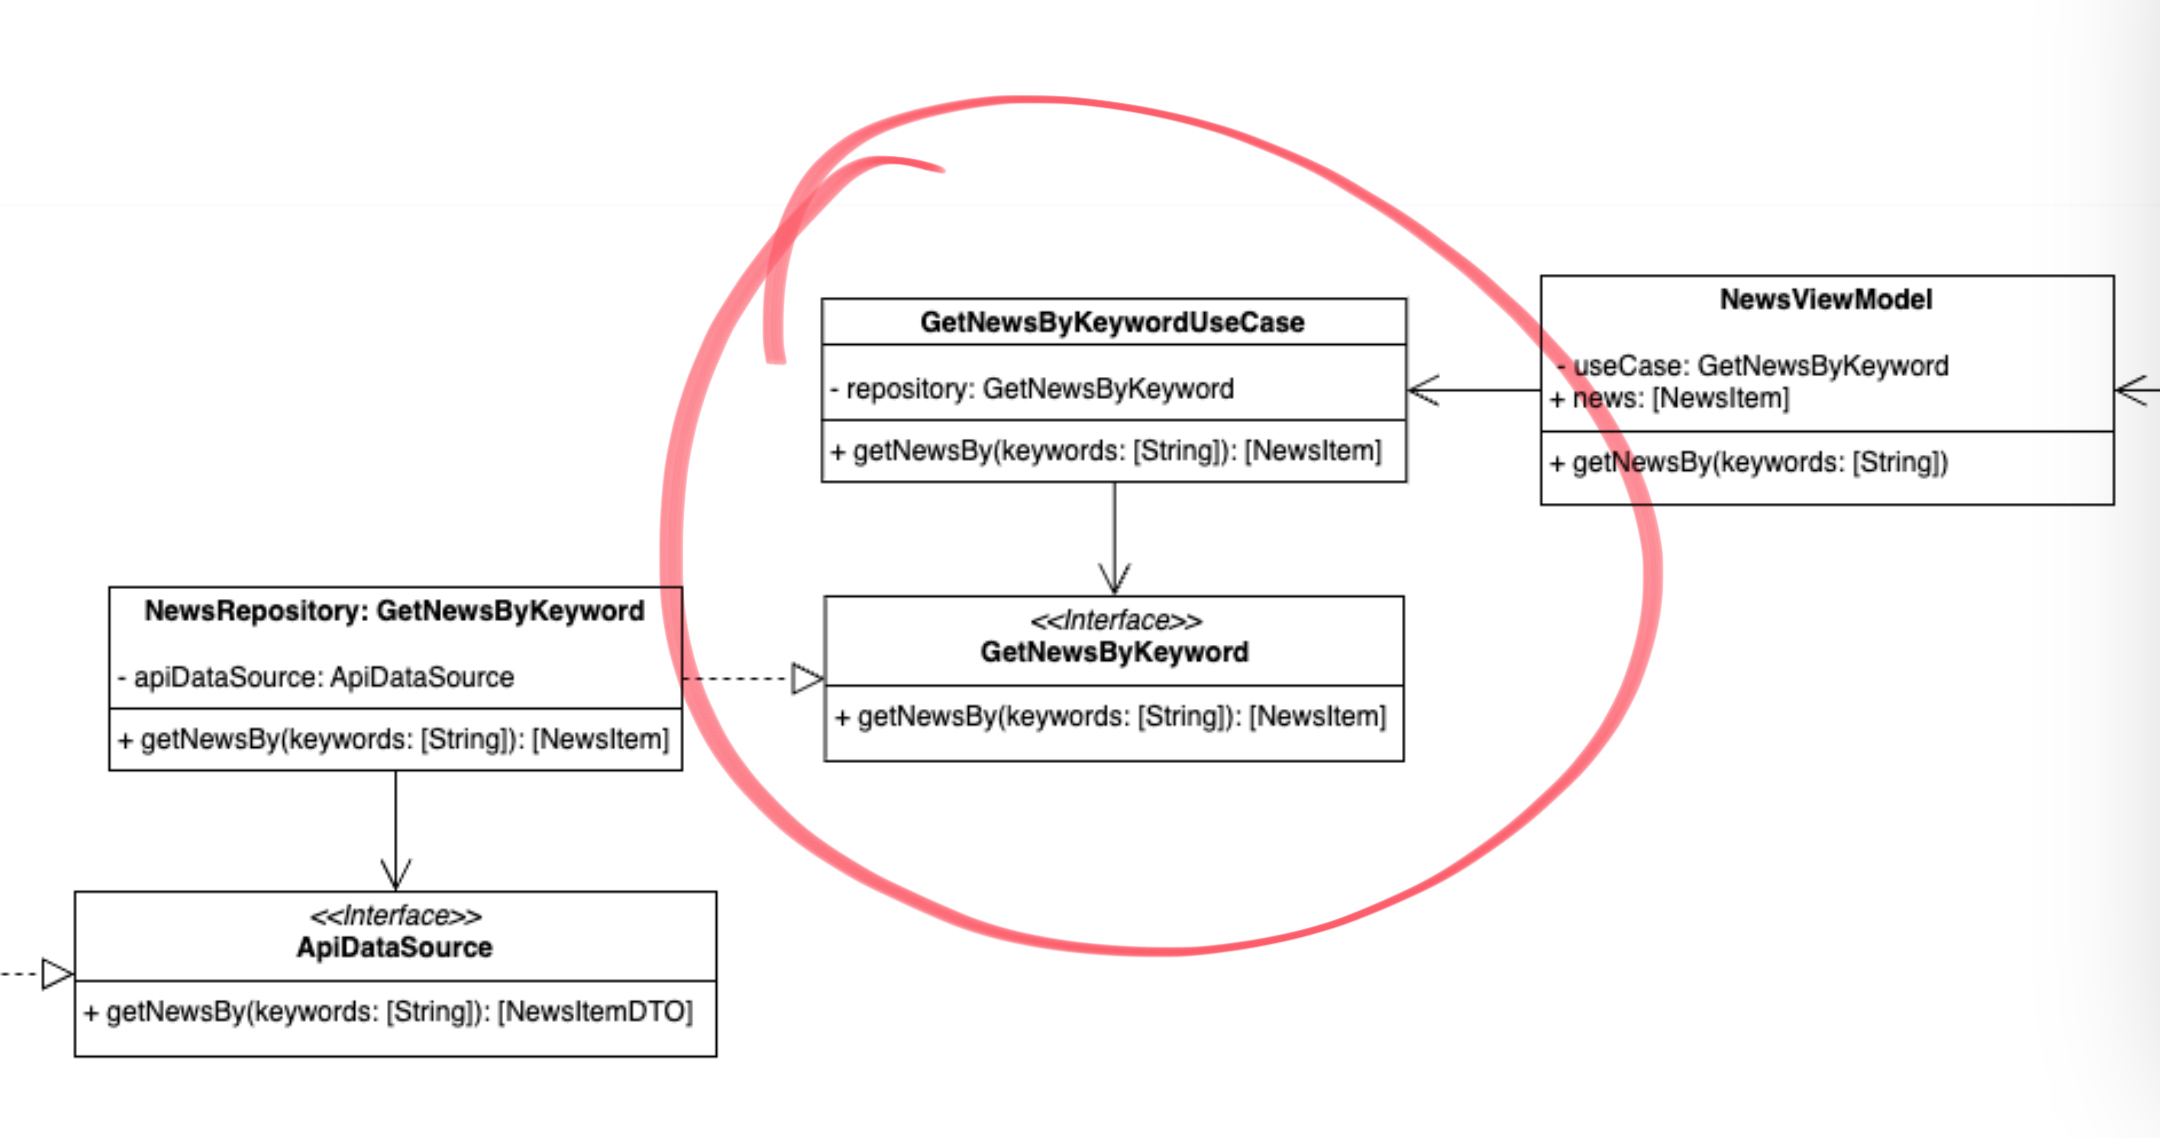
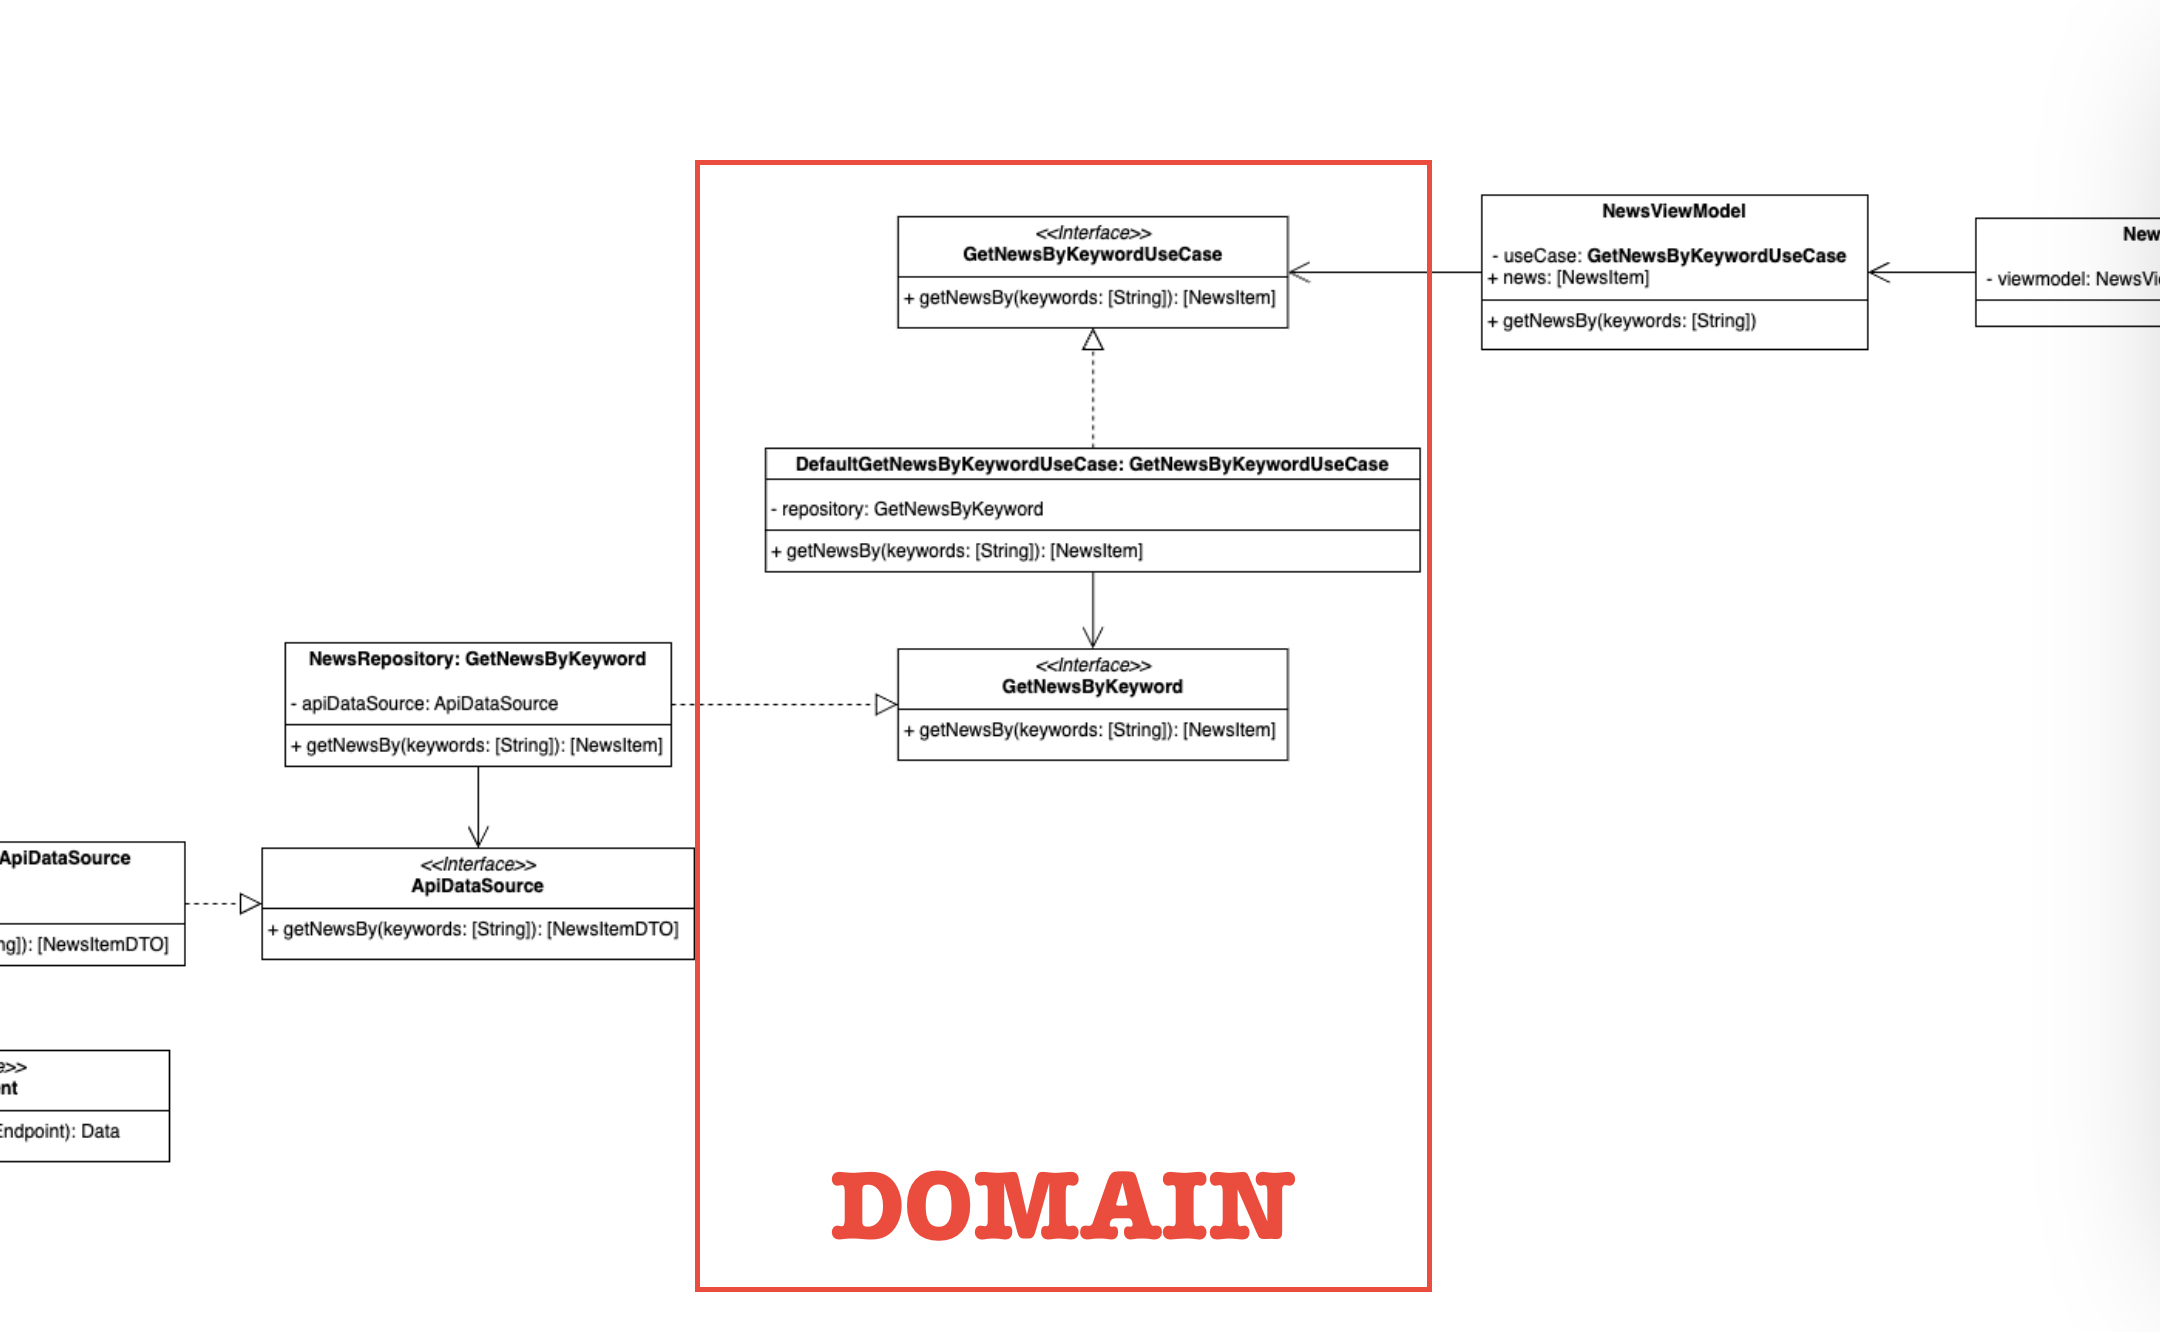
update article and images

diff --git a/002_clean_architecture/article.md b/002_clean_architecture/article.md
@@ -181,12 +181,17 @@ Veamos ahora, mediante un diagrama UML, un resumen simplificado de una posible a
 
 ![Imagen del caso de uso y su interface](images/uml2.png)
 
-Nos encontramos en la capa de dominio, hemos creado nuestro caso de uso **GetNewsByKeywordUseCase**. ¿Cuál es su responsabilidad?, este caso de uso se ocupa de preparar los datos para aplicar correctamente la lógica de negocio. Por ejemplo, podría recibir los datos y, para cumplir con nuestra lógica de negocio, ordenarlos en base a una determinada propiedad: nombre, publicación...  
+Nos encontramos en la capa de dominio, hemos creado nuestro caso de uso **GetNewsByKeywordUseCase**. ¿Cuál es su responsabilidad?, este caso de uso se ocupa de preparar los datos para aplicar correctamente la lógica de negocio. Por ejemplo, podría recibir los datos y, para cumplir con dicha lógica, ordenarlos en base a una determinada propiedad: nombre, publicación...  
 
 También podría ocuparse de filtrar los artículos para excluir aquellos cuyo contenido se considerase inapropiado, etc. En resumen, una vez obtenidos los datos los tendría listos para ser devueltos a quien los requiriese.   
 
 - Un momento, ¿no tiene demasiadas responsabilidades?, ¿tiene que ocuparse de recibir los datos y prepararlos en base a nuestras reglas de negocio?...  
     - Bien visto, pero para la obtención de datos se apoya en lo que convencionalmente denominamos repositorio. Será a dicho repositorio al que le solicitaremos los datos correspondientes, delegando esa responsabilidad en éste y manteniendo nuestro principio de responsabilidad única. Además nuestra dependencia del repositorio está invertida, por lo que especificamos de forma abstracta a la capa superior qué necesitamos, pero sin especificar ningún tipo de implementación. De esta forma dependemos de una abstracción, no de ninguna implementación concreta que rompa nuestra regla de la dependencia. 
+
+> En el principio SOLID **Inversión de la dependencia**, en muchas ocasiones, se hace referencia a que los módulos de alto nivel no deberían depender de los módulos de bajo nivel y que, ambos, deberían depender de abstracciones. 
+>
+> Con módulos de alto nivel se refieren a nuestra lógica de dominio, nuestra reglas de negocio, nuestras entidades...
+> Nos indica que estos módulos no deberían de depender, por ejemplo, de componentes de la capa de infraestructura como la interfaz de usuario o la base de datos.
 
 ### Adapters -> Repository
 
@@ -234,10 +239,61 @@ Bien, volvamos a la capa de adaptadores, pero veamos qué tenemos a la derecha d
 
 ### Adapters -> Presenters
 
-![Capa de presentadores, muestra un ViewModel](images/uml5.jpg)
+![Capa de presentadores, muestra un ViewModel](images/uml5.png)
 
 En el otro lado del flujo de datos nos encontramos con los presenters. Al igual que hacían en la capa de repositorios aquí también actúan de intermediarios entre los casos de uso y, en este caso, la interfaz de usuario. 
 
 Los presenters reciben los datos de los casos de  uso y los preparan para su uso en la interfaz de usuario correspondiente, en nuestro caso vistas de SwiftUI o Composables de Jetpack Compose. Con esto se garantiza que la vista reciba solo los datos que necesita y en el formato que los necesita. 
 
-// TODO: Cambiar imagen y adaptar texto
+Para seguir cumpliendo con la regla de **depender de abstracciones y no de implementaciones** la dependencia que tiene el  viewmodel con el caso de uso también lo hace sobre una abstracción, no sobre una implementación concreta de dicho caso de uso.
+
+### Infraestructure -> UI
+
+![Capa de infraestructura, muestra la vista](images/uml6.png)
+
+Para completar con nuestra arquitectura llegaríamos a la capa de infraestructura por la parte de la interfaz de usuario. En este ejemplo sería una View de SwiftUI o un Composable de Jetpack Compose. 
+
+Y con esto habríamos completado nuestra arquitectura limpia para un feature en concreto. En la siguiente sección hablaremos de algunas cuestiones a valorar. 
+
+## Problemas y rupturas de la arquitectura
+
+En la parte de la interfaz gráfica, donde se encuentran el caso de uso, el viewmodel y la vista, se sigue cumpliendo estrictamente la regla de la dependencia, en concreto: 
+- El caso de uso, en la capa de dominio, no conoce al ViewModel y no tiene ninguna dependencia con éste. 
+- El ViewModel, en la capa de adaptadores, no conoce a la View, no tiene acoplamiento a ésta.
+- La View, en la capa de Infraestructure usa el ViewModel que tiene en una capa más interna, por lo que no hay ningún problema. 
+
+Pero sí que nos encontramos con un problema, al menos en el caso de una implementación con SwiftUI. Y es el framework de reactividad. 
+
+En las primeras versiones de SwiftUI podría tratarse de Combine, de Observation para iOS 17 en adelante o incluso, Steve Wozniak no lo quiera, una librería de terceros. 
+
+La cuestión a tener en cuenta es que este ViewModel en la capa de Adaptadores no debería estar acoplado a un detalle de la infraestructura. ¿Podría resolverse?, sí, podría crearse un componente intermedio que no contuviese información al respecto del framework reactivo. 
+
+Dicho componente usaría el caso de uso para obtener la información. ¿Cómo se comunicaría con el ViewModel?, de nuevo mediante inversión de la dependencia. 
+
+Se me ocurren varias formas, por ejemplo, mediante el patrón protocolo delegado, haciendo que el ViewModel lo implementase. Los ViewModel, en SwiftUI, son clases así que no habría problema en que el composition root usase una referencia de dicho ViewModel y lo inyectase como delegado. En el proyecto de ejemplo que adjunto a este artículo hay una rama en la que creo este componente intermedio. 
+
+También podríamos usar el patrón observer, de nuevo una combinación de pasos por referencia y protocolos haría posible resolver el problema. 
+
+Pero en este caso he optado por no agregarla. ¿Por qué?, decisión de arquitectura, no lo he creído conveniente. O más bien, no he visto que aporte el valor suficiente para compensar la complejidad extra. 
+
+Y aquí es dónde vienen las malas caras, ¿cuánto de puristas queremos ser?, o como se dice en mi pueblo, ¿queremos ser más papistas que el papa?
+
+Cada desarrollador encargado de crear la arquitectura de un proyecto tendrá que enfrentarse a estas decisiones y deberá valorar muchas cosas antes de optar por un camino u otro. Por ejemplo:
+
+- **Complejidad del dominio:** sistemas con lógica de negocio compleja pueden requerir más capas para asegurar una separación clara de responsabilidades y facilitar el mantenimiento.
+- **Volumen y variabilidad de los requisitos:** proyectos con requisitos cambiantes o en evolución pueden beneficiarse de una arquitectura más modular que permita adaptaciones rápidas sin afectar otras partes del sistema.
+- **Experiencia y habilidades del equipo de desarrollo:** un diseño más simple puede ser preferible si el equipo no tiene experiencia profunda en arquitecturas multicapa.
+- **Tiempo de desarrollo disponible:** la disponibilidad de tiempo para el desarrollo puede influir en la complejidad de la arquitectura elegida.
+- **Presupuesto:** los recursos financieros disponibles pueden determinar las herramientas y tecnologías accesibles, así como la posibilidad de implementar una arquitectura más compleja.
+
+Y aquí me vais a permitir que divague y use un símil deportivo. En Voleibol muchos entrenadores tienden a cometer el error de adaptar sus equipos a un sistema táctico concreto cuando lo más lógico, útil y eficiente es adaptar dicho sistema táctico a tu equipo, potenciando así sus virtudes y tratando de corregir, en la medida de lo posible, sus defectos. 
+
+Soy un firme defensor de que sucede lo mismo con la arquitectura. Dentro de unos estándares de calidad mínimos, posiblemente la mejor arquitectura sea la que mejor se adapte a tu proyecto en concreto, requisitos, equipo, disponibilidad de tiempo, etc. 
+
+Por ejemplo, [Julio César Fernández](https://www.linkedin.com/in/jcfmunoz/), de [Apple Coding](https://acoding.academy/), presentó en uno de sus vídeos la arquitectura que él consideraba que mejor se adaptaba a un proyecto actual con SwiftUI. 
+
+Definió las bases de lo que ha llamado su Apple Coding Clean Architecture, de nuevo en base a su experiencia como desarrollador en entornos Apple. Experiencia que, dicho sea de paso, no es poca.
+
+Obviamente tuvo que aguantar los típicos comentarios sobre que no se trataba de una arquitectura limpia, que rompía las reglas, etc, etc...
+
+Así que estad tranquilos sabiendo que hagáis lo que hagáis os van a criticar. Vuestra arquitectura perfecta nunca lo va a ser para todo el mundo.
